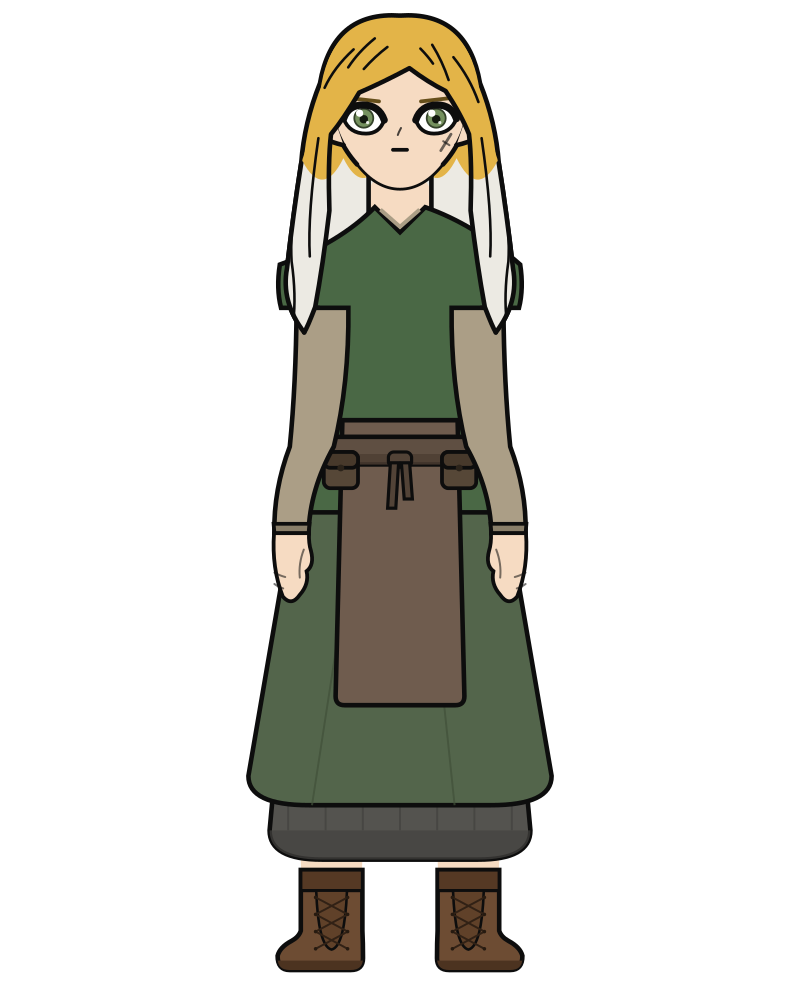
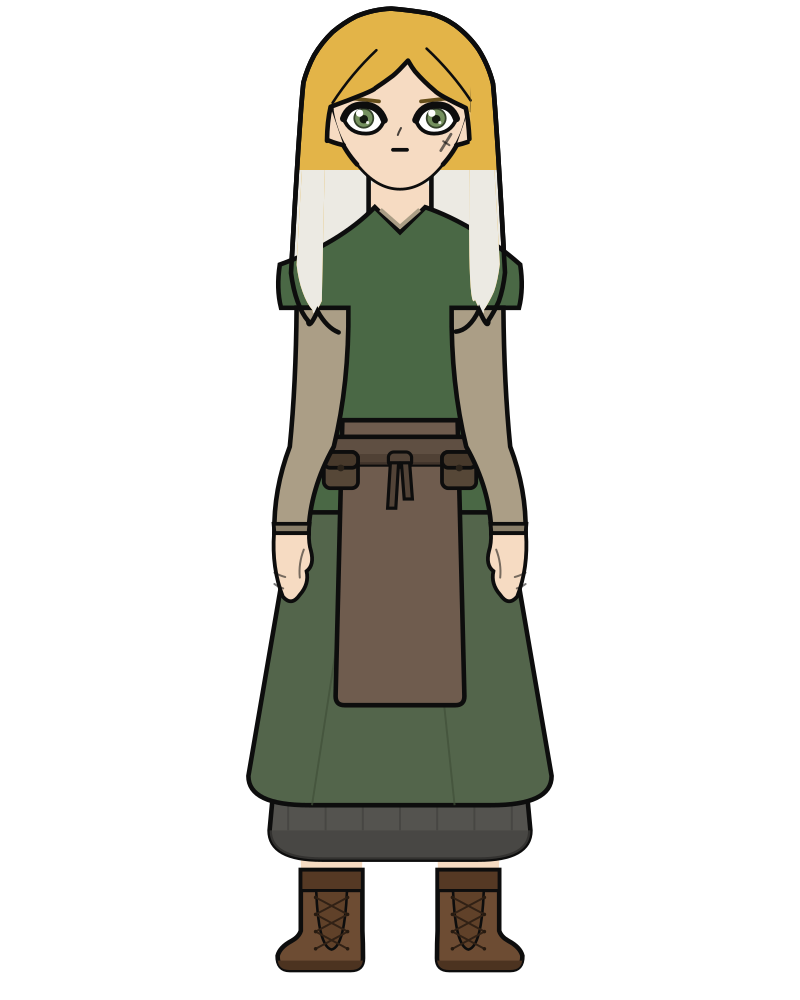
iterate satoko's hair

Changed region(s): [[0.3438, 0.0, 0.6562, 0.341]]

diff --git a/src/anime_character_creator/character.py b/src/anime_character_creator/character.py
@@ -696,6 +696,190 @@ def _short_strands(tip: float) -> list[tuple[Point, list[Segment]]]:
     ]
 
 
+# Satoko's traced cut.
+#
+# Both boundaries come off `ref/satoko-chibi-hair.png`, her hair cut out of the
+# chibi reference by the owner, and the signal is **the drawn black outline**
+# rather than the crop's alpha. The alpha is a rough selection: some of the page
+# came through opaque and the face opening's edge is a staircase. The ink is the
+# artist's own line and is exact wherever the selection is not.
+#
+# Reading ink works on a crop of the hair alone and does not on a whole face,
+# because brows and eyes are the only other dark things on one. Here the
+# furthest ink along a bearing is the mass and the nearest is the hairline, with
+# nothing between them that could be either. `out/trace/satoko.py` carries it,
+# and the crop places back into the reference at a mean squared error of 1.
+#
+# 18 and 8 segments: the finest levels with no edge under two stroke widths at
+# either build, the same bound the other traced cuts were chosen on.
+_LONG_EDGE_START: Point = (-0.782, 1.677)
+_LONG_EDGE: list[Segment] = [
+    ((-0.933, 1.651), (-1.050, 1.557)),
+    ((-1.165, 1.666), (-1.171, 1.612)),
+    ((-1.250, 1.572), (-1.306, 1.502)),
+    ((-1.362, 1.434), (-1.388, 1.341)),
+    ((-1.283, 0.169), (-1.232, -0.307)),
+    ((-1.183, -0.490), (-1.094, -0.657)),
+    ((-0.997, -0.821), (-0.858, -0.953)),
+    ((-0.721, -1.070), (-0.561, -1.150)),
+    ((-0.342, -1.242), (-0.109, -1.251)),
+    ((0.140, -1.229), (0.386, -1.187)),
+    ((0.556, -1.141), (0.701, -1.040)),
+    ((0.878, -0.907), (1.002, -0.728)),
+    ((1.128, -0.525), (1.186, -0.296)),
+    ((1.230, 0.160), (1.338, 1.338)),
+    ((1.314, 1.432), (1.260, 1.501)),
+    ((1.199, 1.562), (1.127, 1.609)),
+    ((1.126, 1.670), (1.006, 1.550)),
+    ((0.883, 1.665), (0.710, 1.672)),
+]
+_LONG_LINE_START: Point = (-0.930, 0.434)
+_LONG_LINE: list[Segment] = [
+    ((-0.927, 0.190), (-0.884, -0.000)),
+    ((-0.331, -0.200), (-0.315, -0.237)),
+    ((-0.204, -0.311), (-0.091, -0.394)),
+    ((-0.031, -0.443), (0.103, -0.587)),
+    ((0.154, -0.498), (0.191, -0.449)),
+    ((0.307, -0.317), (0.440, -0.205)),
+    ((0.493, -0.148), (0.838, 0.015)),
+    ((0.873, 0.187), (0.885, 0.412)),
+]
+# How far above the mass's own lower edge the gold gives way to the pale tips.
+# Larger than the crop's because these are falls rather than blades: the tips
+# run a long way and the canon turns them pale over roughly their last third.
+_LONG_BASE_TIP = 1.677
+_LONG_TONE_LIFT = 0.62
+# How far inside the silhouette the front hair's fill boundary is pulled.
+_LONG_FILL_INSET = 0.05
+# Which segment ends on the crown's apex, so the two sides can be taken apart.
+_LONG_CROWN_AT = 9
+
+
+def _long_scaled(fall: float) -> tuple[Point, list[Segment]]:
+    """The traced contour with its fall stretched to `fall`, its crown left alone.
+
+    A long cut does not scale as one piece, and the contract already says so:
+    above the cheek line hair is pinned to the skull, below it the points are a
+    fraction of the way down to the tips. So only y below `_HAIR_CHEEK_Y` is
+    remapped, and x is left as traced, because a fall that hangs further does not
+    also hang wider.
+
+    Scaling the whole contour was tried and is wrong twice over. It carries the
+    crown up with the tips, which at the adult build puts it past the canvas
+    ceiling; and it needs a head-relative `tip_range` to stay inside that, which
+    stops a long cut lengthening with the body at all. That is the thing the
+    body-relative branch of `_hair_fall` exists for.
+    """
+    span = _LONG_BASE_TIP - _HAIR_CHEEK_Y
+    k = (fall - _HAIR_CHEEK_Y) / span if span else 1.0
+
+    def q(pt: Point) -> Point:
+        y = pt[1]
+        return (pt[0], _HAIR_CHEEK_Y + (y - _HAIR_CHEEK_Y) * k) if y > _HAIR_CHEEK_Y else pt
+
+    return q(_LONG_EDGE_START), [(q(c), q(e)) for c, e in _LONG_EDGE]
+
+
+def _long_traced_mass(fall: float) -> tuple[Point, list[Segment]]:
+    """The whole silhouette, closed behind the shoulders where it is never seen."""
+    start, edge = _long_scaled(fall)
+    end = edge[-1][1]
+    return start, [*edge, (((end[0] + start[0]) / 2, max(end[1], start[1]) + 0.16), start)]
+
+
+def _long_traced_fall_edge(fall: float) -> list[tuple[Point, list[Segment]]]:
+    """Both sides of the outline, each from its tip up to the crown. Taken out of
+    the mass's own points rather than restated, and given per side rather than
+    mirrored, since nothing here promises the trace is symmetric."""
+    start, edge = _long_scaled(fall)
+    return [
+        _reverse(edge[_LONG_CROWN_AT][1], edge[_LONG_CROWN_AT + 1 :]),
+        (start, edge[: _LONG_CROWN_AT + 1]),
+    ]
+
+
+def _long_traced_hairline(fall: float) -> tuple[Point, list[Segment], list[Segment]]:
+    """Her parting and the inner edges of the falls, traced, with the fill closed
+    back over the crown just inside the mass so the mass carries the silhouette.
+
+    The hairline does not scale with the build. It sits on a face, and the face
+    does not grow when the hair does.
+    """
+    _, edge = _long_scaled(fall)
+    start = _LONG_LINE_START
+    end = _LONG_LINE[-1][1]
+    k = 1.0 - _LONG_FILL_INSET
+    crown = _reverse(edge[0][1], edge[1 : _LONG_CROWN_AT * 2])[1]
+    back: list[Segment] = [((end[0], end[1] - 0.30), (end[0] * 1.02, -0.30))]
+    back += [((c[0] * k, c[1] * k), (e[0] * k, e[1] * k)) for c, e in crown]
+    back.append((((start[0] * 1.02 + start[0]) / 2, -0.30), start))
+    return start, list(_LONG_LINE), back
+
+
+def _long_traced_tip_edge(fall: float) -> list[tuple[Point, list[Segment]]]:
+    """Where the falls turn pale: the mass's own edge, lifted, but never above the
+    half-way line.
+
+    Two rules, and the second is what a long cut needs that a crop does not. The
+    lift is the crop's trick: a uniform lift over an edge whose tips end at
+    different depths leaves every tip pale from a fixed distance above its own
+    point, so the pale follows the hair instead of cutting a level line across it.
+    The clamp then holds the boundary at `_fade_y`'s half-and-half height wherever
+    the lifted edge would climb above it, which is everywhere but the two falls.
+    Without it the lift carries on over the crown and turns the whole head pale.
+
+    A first version took only the segments lying below the head centre, which is
+    not a contiguous run, and left a gold wedge poking into the pale at the foot
+    of each fall.
+    """
+    v = fall / _LONG_BASE_TIP
+    start, edge = _long_scaled(fall)
+    lift = _LONG_TONE_LIFT * v
+    top = min(e[1] for _, e in edge)
+    bottom = max(e[1] for _, e in edge)
+    fade = _fade_y(top, bottom)
+    floor = bottom + 1.0
+    wide = max(abs(e[0]) for _, e in edge) + 0.25
+
+    # The contour, sampled and pushed up, then held at the fade line.
+    pts: list[Point] = []
+    prev = start
+    for ctrl, end in edge:
+        for i in range(1, 7):
+            t = i / 6
+            x = (1 - t) ** 2 * prev[0] + 2 * (1 - t) * t * ctrl[0] + t**2 * end[0]
+            y = (1 - t) ** 2 * prev[1] + 2 * (1 - t) * t * ctrl[1] + t**2 * end[1]
+            pts.append((x, max(y - lift, fade)))
+        prev = end
+
+    chain: list[Segment] = []
+    here: Point = (-wide, fade)
+    for q in [*pts, (wide, fade), (wide, floor), (-wide, floor), (-wide, fade)]:
+        chain.append((((here[0] + q[0]) / 2, (here[1] + q[1]) / 2), q))
+        here = q
+    return [((-wide, fade), chain)]
+
+
+def _long_traced_strands(fall: float) -> list[tuple[Point, list[Segment]]]:
+    """The two sweep lines the canon draws off the parting, and one down each
+    fall. They scale with the mass, since they live on it."""
+    v = fall / _LONG_BASE_TIP
+    out = []
+    for x0, y0, cx0, cy0, x1, y1 in (
+        (-0.30, -0.72, -0.62, -0.42, -0.86, -0.05),
+        (0.34, -0.74, 0.66, -0.44, 0.90, -0.08),
+    ):
+        out.append(((x0, y0), [((cx0, cy0), (x1, y1))]))
+    for side in (-1, 1):
+        out.append(
+            (
+                (side * 1.02 * v, 0.10 * v),
+                [((side * 1.10 * v, 0.70 * v), (side * 1.06 * v, 1.30 * v))],
+            )
+        )
+    return out
+
+
 # Satoshi's traced crop.
 #
 # The outline here is not authored, it is measured. `out/trace/` pulls the canon's
@@ -1323,6 +1507,17 @@ HAIRSTYLES: dict[str, Hairstyle] = {
         # shaggy ear-length cut at 1. The old (0.42, 1.00) range described the
         # bob this used to be, with locks reaching for the jaw.
         tip_range=(0.25, 0.70),
+    ),
+    "long_traced": Hairstyle(
+        _long_traced_mass,
+        _long_traced_hairline,
+        _long_traced_fall_edge,
+        _long_traced_tip_edge,
+        strands=_long_traced_strands,
+        # No `tip_range`, so `hair_length` measures the body, chin to hip. That
+        # is what keeps a long haircut the same haircut when the build changes;
+        # a head-relative range would freeze her hair at one length and it would
+        # ride up the adult's back.
     ),
     "short_crop": Hairstyle(
         _crop_mass_shape,

diff --git a/src/anime_character_creator/presets.py b/src/anime_character_creator/presets.py
@@ -32,6 +32,7 @@ BOOTS = "#6d4c33"
 SATOKO = CharacterParams(
     skin_tone="#f6dbc2",
     hair_color=HAIR,
+    hairstyle="long_traced",
     hair_tip_color=HAIR_TIPS,
     eye_color="#74905e",
     # Working clothes in layers: green tunic over tan undersleeves, brown

diff --git a/STATUS.md b/STATUS.md
@@ -278,8 +278,43 @@ locks, 17 of 22 sides in solid ink, and that drawing it needed a contract
 slot for overlapping locks. The two reverts that claim caused were right
 on the evidence available; the evidence was wrong.
 
+**Satoko's cut is traced and built as `long_traced`, and nothing points
+at it yet.** Both boundaries come off `ref/satoko-chibi-hair.png`, and
+the signal is the owner's correction: **trace the drawn black outline,
+not the crop's alpha.** The alpha is a rough selection, some of the page
+opaque and the face opening a staircase; the ink is the artist's own line
+and is exact where the selection is not. Reading ink works on a crop of
+hair alone and fails on a whole face, because brows and eyes are the only
+other dark things on one. Here the furthest ink along a bearing is the
+mass and the nearest is the hairline. The crop places back into the
+reference at a mean squared error of 1, and her eye half-separation
+cross-checks the calibration at 0.459 head radii against our house 0.46.
+
+Eighteen segments for the mass and eight for the hairline, both the finest
+levels with no edge under two stroke widths. **Satoko now wears it.** It renders fuller and rounder than `long_blunt`,
+its parting reads, and the pale follows the falls instead of cutting a
+level line across them; `out/trace/satoko_shipped.png` puts both builds
+beside their references. The gain is smaller than Satoshi's was, which is
+expected: her `long_blunt` bell was tuned by eye in task 59 and was
+already close to the traced outline (`out/trace/satoko_port.png` overlays
+them).
+
+Two faults were found by looking, and both were mine rather than the
+trace's. The tone region left a gold wedge poking into the pale at the
+foot of each fall, because it was built from only those segments lying
+below the head centre, which is not a contiguous run; it now lifts the
+whole contour and clamps it at the half-and-half line, so the pale follows
+the tips and never climbs over the crown. And **a long cut was given a
+head-relative `tip_range`**, which froze her hair at one length in head
+radii, so at the adult build it rode up her back into a short white
+curtain. That is precisely what the body-relative branch of `_hair_fall`
+exists for. `_long_scaled` now stretches only what lies below
+`_HAIR_CHEEK_Y` and leaves the crown alone, which is the split the hair
+contract has always documented, and the cut measures its length against
+the body again.
+
 **The tone boundary follows the blades now** (the owner's call,
-2026-08-07, reopening the lock below for one change). `_crop_tip_edge`
+2026-08-07), and this is the state the chibi is locked at. `_crop_tip_edge`
 was a single wave at a fixed height, which could only say "pale below this
 line" and read as a white liner under a gold cap. It is the fringe's own
 traced chain lifted by `_CROP_TONE_LIFT` and extended out to the mass on
@@ -298,8 +333,9 @@ This does *not* use `tip_edge`'s list of regions, which task 71 added for
 exactly this and which nothing has needed yet. Per-lock regions remain the
 way to vary the depth per lock if that ever matters.
 
-**The chibis are locked in** (the owner's call, 2026-08-07): the chibi
-crop is where it should be and further work goes elsewhere. Nothing extra
+**The chibis are locked in** (the owner's call, 2026-08-07, confirmed
+after the tone change above): the chibi crop is where it should be and
+further work goes elsewhere. Nothing extra
 is needed to hold it, because `ref-out/` already pins all four renders
 byte for byte and `test_ref_out_matches_the_code` fails the moment a shape
 changes. That is the lock: refreshing it is a deliberate act, so a chibi
